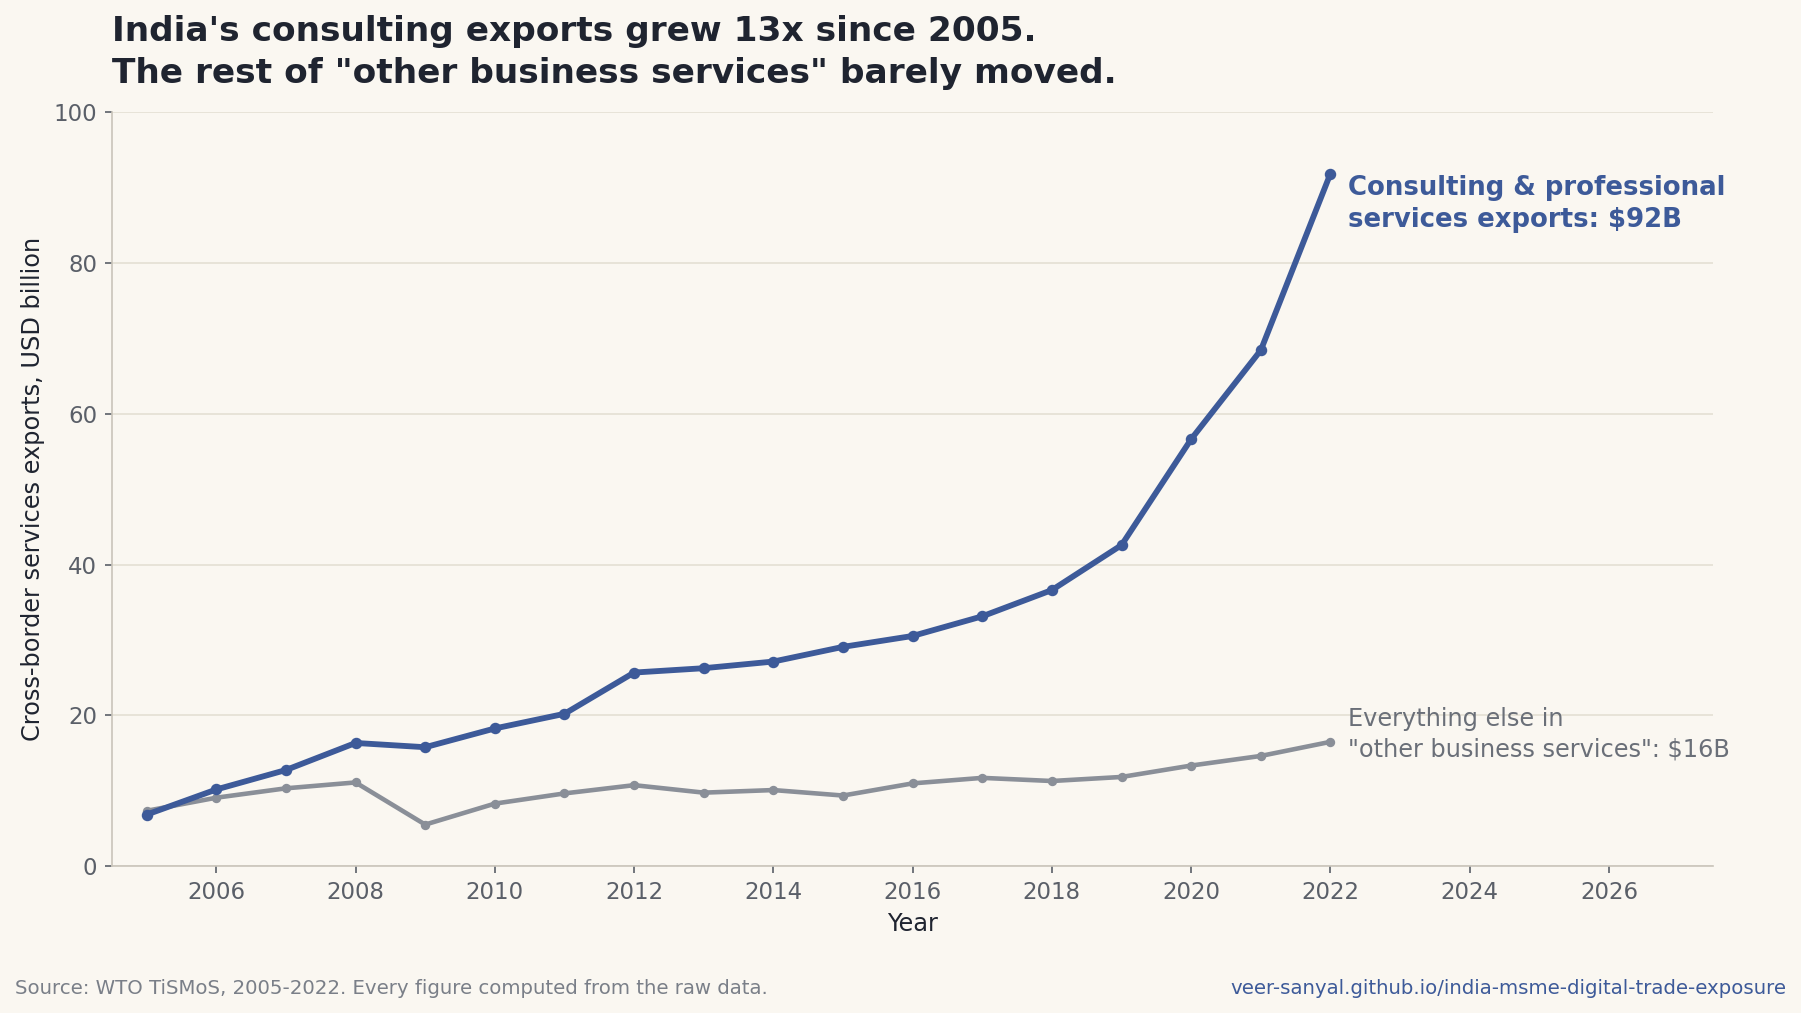
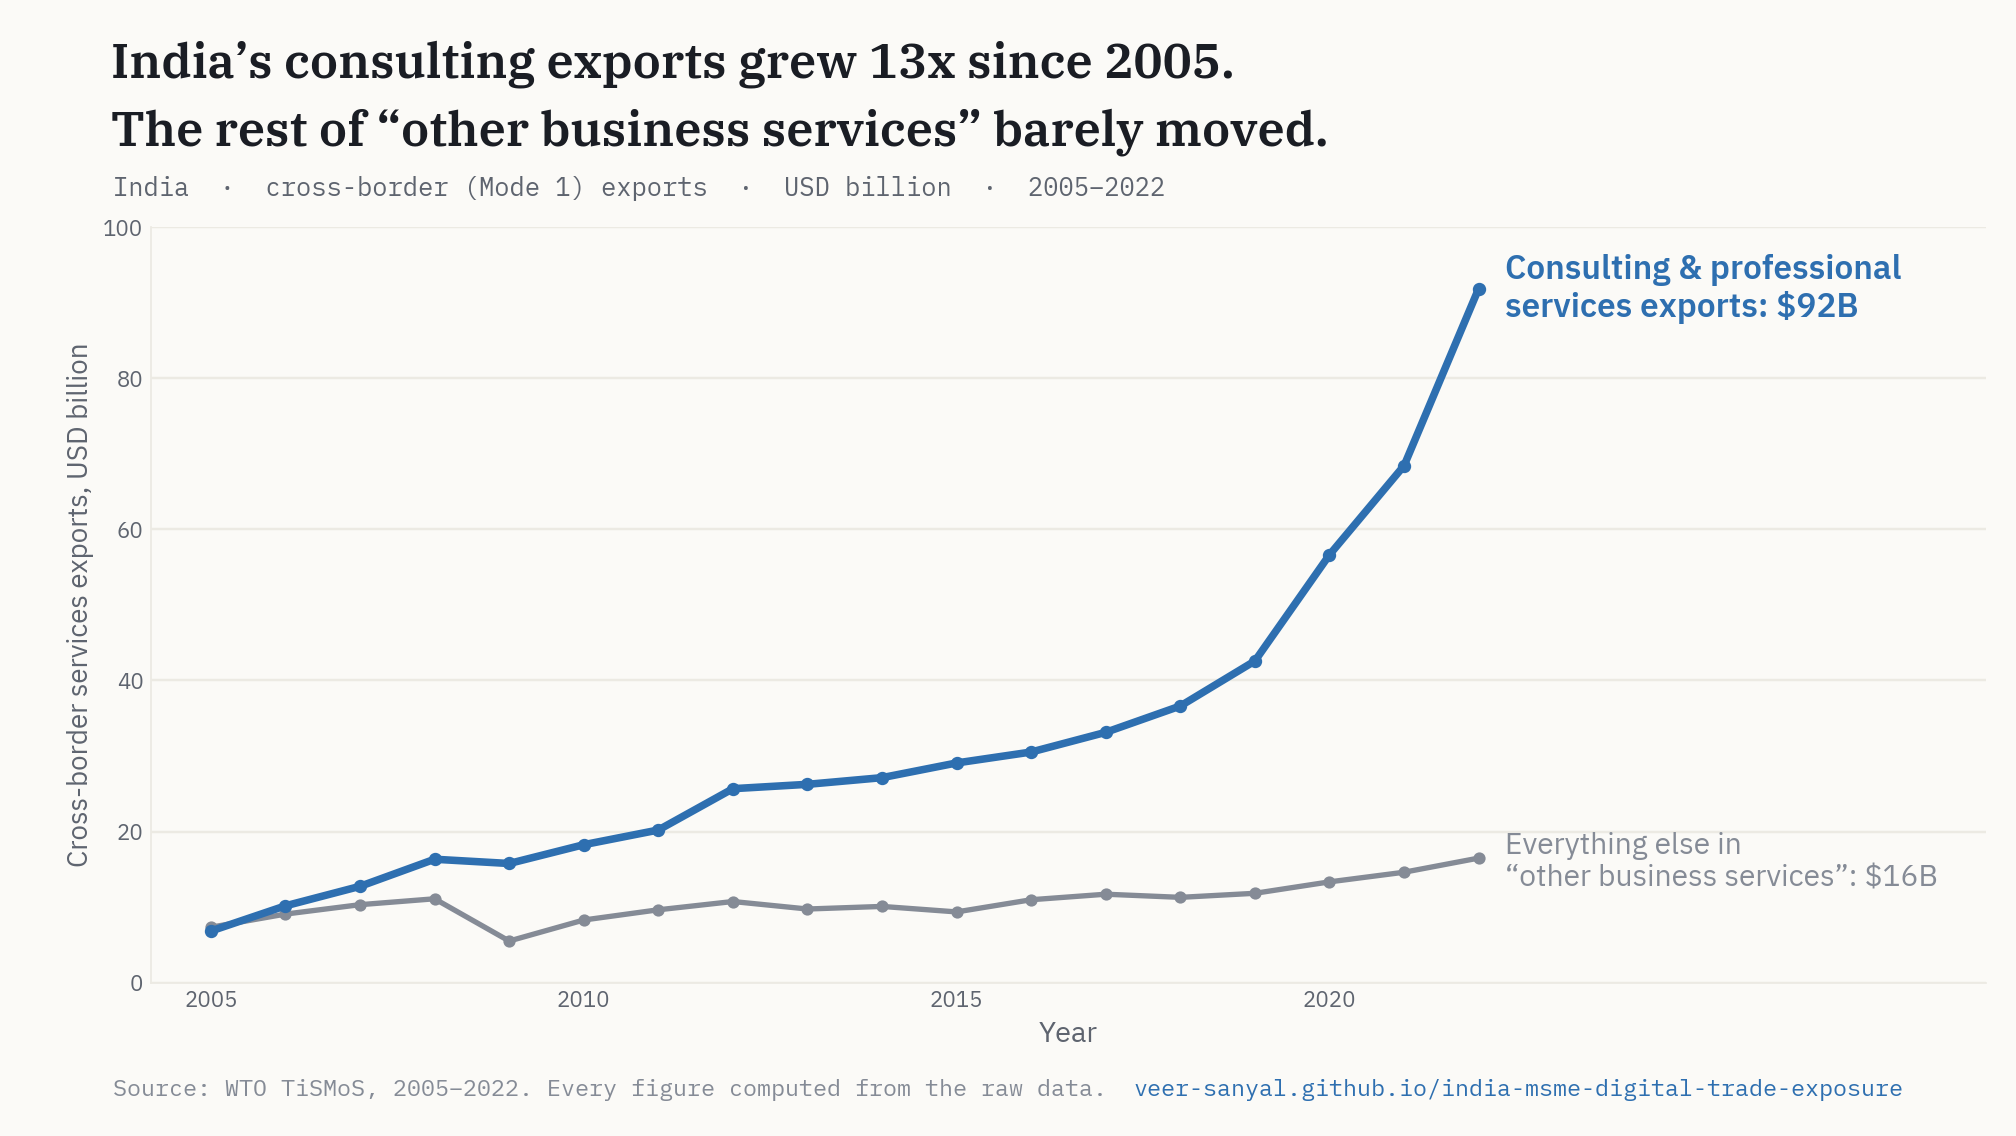
Restyle Chart A to match dashboard (IBM Plex + dashboard palette); add make_chart_A.py

diff --git a/files/linkedin/make_chart_A.py b/files/linkedin/make_chart_A.py
@@ -1,0 +1,104 @@
+"""Reproducible generator for chart_A_consulting.png (LinkedIn post v7 lead image).
+
+Restyled 2026-06-14 to match the live dashboard's visual language:
+- Fonts: IBM Plex Serif (title), IBM Plex Sans (body/axes), IBM Plex Mono (subtitle/source)
+- Palette pulled from the dashboard's own tokens / live Plotly traces:
+  paper #FBFAF7, ink #1A1D24, grid #ECEAE3, consulting line #2E6FB0 (indigo-500),
+  remainder line #858B96 (ink-400). Line widths mirror the live chart (2.6 / 2.0, scaled up for a poster).
+
+Data is the dashboard's "What actually drove the surge" chart: the two Mode 1 export
+sub-codes of EBOPS SJXSJ34 (other business services), USD billion, 2005-2022, read
+directly off the live Plotly traces (same computed-from-source values the site uses).
+Consulting: $6.83B (2005) -> $91.86B (2022) = 13.4x. Remainder: ~flat.
+
+IBM Plex is not bundled with matplotlib. To make it available locally without root:
+    cd /tmp && apt-get download fonts-ibm-plex && dpkg-deb -x fonts-ibm-plex_*.deb /tmp/plex
+The font search below checks that location plus standard font dirs, and falls back to
+matplotlib defaults if IBM Plex is missing (so the script still runs, just off-brand).
+"""
+import os, glob
+import matplotlib
+matplotlib.use("Agg")
+import matplotlib.pyplot as plt
+import matplotlib.font_manager as fm
+
+# --- locate IBM Plex faces (graceful fallback) ---
+SEARCH = ["/tmp/plex/usr/share/fonts/truetype/ibm-plex",
+          "/usr/share/fonts/truetype/ibm-plex",
+          os.path.expanduser("~/.fonts"), os.path.expanduser("~/.local/share/fonts")]
+def face(stem, fallback_family):
+    for d in SEARCH:
+        hits = glob.glob(os.path.join(d, stem + ".ttf"))
+        if hits:
+            fm.fontManager.addfont(hits[0])
+            return fm.FontProperties(fname=hits[0])
+    return fm.FontProperties(family=fallback_family)
+
+serif_sb = face("IBMPlexSerif-SemiBold", "serif")     # title
+sans_reg = face("IBMPlexSans-Regular",  "sans-serif") # axes / labels
+sans_sb  = face("IBMPlexSans-SemiBold", "sans-serif") # emphasis labels
+mono_reg = face("IBMPlexMono-Regular",  "monospace")  # subtitle / source
+try:
+    plt.rcParams["font.family"] = sans_reg.get_name()
+except Exception:
+    pass
+
+# --- dashboard palette ---
+PAPER="#FBFAF7"; INK="#1A1D24"; INK500="#5E646F"; INK400="#858B96"
+GRID="#ECEAE3"; INDIGO="#2E6FB0"; REMAIN="#858B96"
+
+# --- data (USD billion), read off the live dashboard Plotly traces ---
+years = list(range(2005, 2023))
+consulting = [6.83173,10.16609,12.74933,16.33565,15.77131,18.25927,20.20304,25.67487,
+              26.2518,27.13475,29.08125,30.52841,33.13686,36.61942,42.58266,56.63808,
+              68.4342,91.86231]
+remainder  = [7.33507,9.07506,10.32011,11.10007,5.50873,8.29042,9.64259,10.73808,
+              9.74638,10.0891,9.36229,10.97456,11.70556,11.28993,11.82686,13.33943,
+              14.61521,16.48685]
+mult = consulting[-1]/consulting[0]   # ~13.4x
+
+fig, ax = plt.subplots(figsize=(12.6, 7.1), dpi=160)
+fig.patch.set_facecolor(PAPER); ax.set_facecolor(PAPER)
+
+ax.plot(years, remainder, color=REMAIN, lw=2.4, marker="o", ms=4.5,
+        solid_capstyle="round", zorder=2)
+ax.plot(years, consulting, color=INDIGO, lw=3.4, marker="o", ms=5,
+        solid_capstyle="round", zorder=3)
+
+# end-of-line labels (carry the $ payload)
+ax.text(2022.35, consulting[-1], "Consulting & professional\nservices exports: $92B",
+        color=INDIGO, fontproperties=sans_sb, fontsize=15, va="center")
+ax.text(2022.35, remainder[-1]-0.5, "Everything else in\n“other business services”: $16B",
+        color=INK400, fontproperties=sans_reg, fontsize=13.5, va="center")
+
+# title (IBM Plex Serif, like the dashboard headings) + mono subtitle
+fig.text(0.055, 0.965, "India’s consulting exports grew 13x since 2005.",
+         fontproperties=serif_sb, fontsize=22, color=INK, va="top")
+fig.text(0.055, 0.905, "The rest of “other business services” barely moved.",
+         fontproperties=serif_sb, fontsize=22, color=INK, va="top")
+fig.text(0.056, 0.845, "India  ·  cross-border (Mode 1) exports  ·  USD billion  ·  2005–2022",
+         fontproperties=mono_reg, fontsize=11.5, color=INK500, va="top")
+
+ax.set_xlabel("Year", fontproperties=sans_reg, fontsize=13, color=INK500)
+ax.set_ylabel("Cross-border services exports, USD billion",
+              fontproperties=sans_reg, fontsize=12.5, color=INK500)
+ax.set_xlim(2004.2, 2028.8); ax.set_ylim(0, 100)
+ax.set_xticks([2005, 2010, 2015, 2020])
+ax.set_yticks([0, 20, 40, 60, 80, 100])
+for lab in ax.get_xticklabels()+ax.get_yticklabels():
+    lab.set_fontproperties(sans_reg); lab.set_color(INK500)
+ax.grid(axis="y", color=GRID, lw=1.1); ax.set_axisbelow(True)
+ax.tick_params(length=0)
+for s in ["top","right"]: ax.spines[s].set_visible(False)
+for s in ["left","bottom"]: ax.spines[s].set_color(GRID)
+
+fig.text(0.056, 0.035,
+         "Source: WTO TiSMoS, 2005–2022. Every figure computed from the raw data.",
+         fontproperties=mono_reg, fontsize=10.5, color=INK400)
+fig.text(0.944, 0.035, "veer-sanyal.github.io/india-msme-digital-trade-exposure",
+         fontproperties=mono_reg, fontsize=10.5, color=INDIGO, ha="right")
+
+fig.subplots_adjust(left=0.075, right=0.985, top=0.80, bottom=0.135)
+out = os.path.join(os.path.dirname(os.path.abspath(__file__)), "chart_A_consulting.png")
+fig.savefig(out, facecolor=PAPER)
+print("saved", out, "| mult=%.2fx" % mult)

diff --git a/PROGRESS.md b/PROGRESS.md
@@ -173,7 +173,7 @@ System:
 
 Pillar 3 (network):
 - First LinkedIn post finalized to **v7** (`files/linkedin/post-01-v7.md`) and saved in the LinkedIn composer, via Claude driving Chrome. Veer handed Claude the call ("make the best possible post, loop until done"). Big change: **angle**. v2-v6 all led with build discipline (nothing hardcoded / the 30x story); v7 leads with the surprising **finding** (India's largest digitally-delivered export category is no longer software, it's "other business services" / consulting, the sub-code grew ~13x, <$7B 2005 to ~$92B 2022), with discipline kept as one credibility paragraph (v0 honesty + modeled-assumption flag + computed-from-source). Rationale: a first post to a cold alumni/recruiter audience needs a hook that makes a stranger care; the reframe does that, and `research-linkedin-presence.md` endorses "one chart + what surprised me." Ran the draft through the-humanizer skill (LinkedIn): real paragraphs, contrarian-specific hook, genuine closing question, no em dashes, no buzzwords. Deliberate override: humanizer's "link-in-body kills reach / use first comment" rule was refuted by Veer's own research; link stays in body per the 2026-06-09 artifact-access decision.
-  - Media call: **lead image = `chart_A_consulting.png`** (it is the hook: consulting 13x, $92B vs $16B; clean and on-message). Optional 2nd = a screenshot of the live Act IV "Exposure ranking by category" view (shows the product + the visible modeled-assumption caveat). Chart B / the 30x discipline angle is now OFF this post and kept as a ready **second-post** seed (post-01-v6.md + chart_B_ip_licensing_v3.png).
+  - Media call: **lead image = `chart_A_consulting.png`** (it is the hook: consulting 13x, $92B vs $16B; clean and on-message). Restyled 2026-06-14 to match the live dashboard: IBM Plex Serif/Sans/Mono + the dashboard palette (paper #FBFAF7, indigo #2E6FB0, grey #858B96, grid #ECEAE3), data read straight off the live Plotly traces. Generator now committed as `make_chart_A.py` (was a bare PNG before). Optional 2nd = a screenshot of the live Act IV "Exposure ranking by category" view (shows the product + the visible modeled-assumption caveat). Chart B / the 30x discipline angle is now OFF this post and kept as a ready **second-post** seed (post-01-v6.md + chart_B_ip_licensing_v3.png).
   - Still manual for Veer: attaching the image (LinkedIn image upload is a native OS file picker the browser tools cannot drive) and hitting Post. Text + draft are done.
   - Earlier in the session: drafted v5 in composer, then v6 (round-30x reframe, declining the false "I typed 30x" version since the real placeholder was ~10x per product DECISIONS Entry 009), before Veer redirected to a full best-post pass (v7).
 